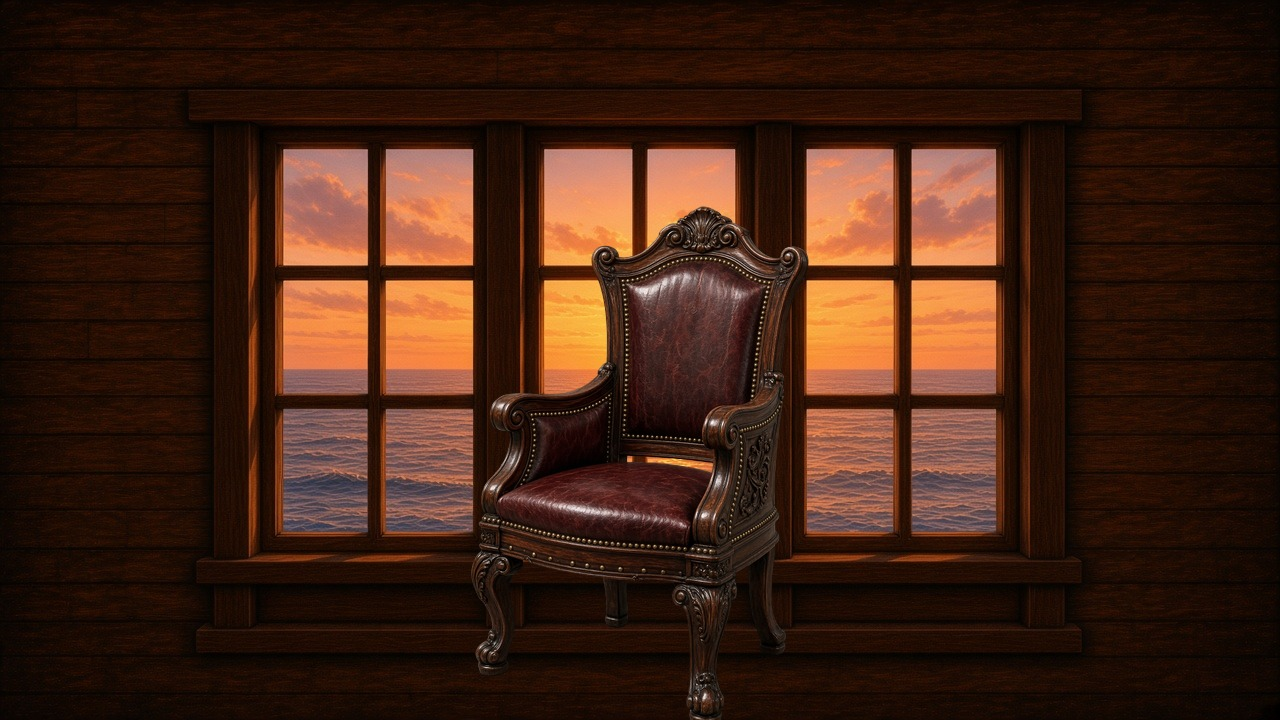
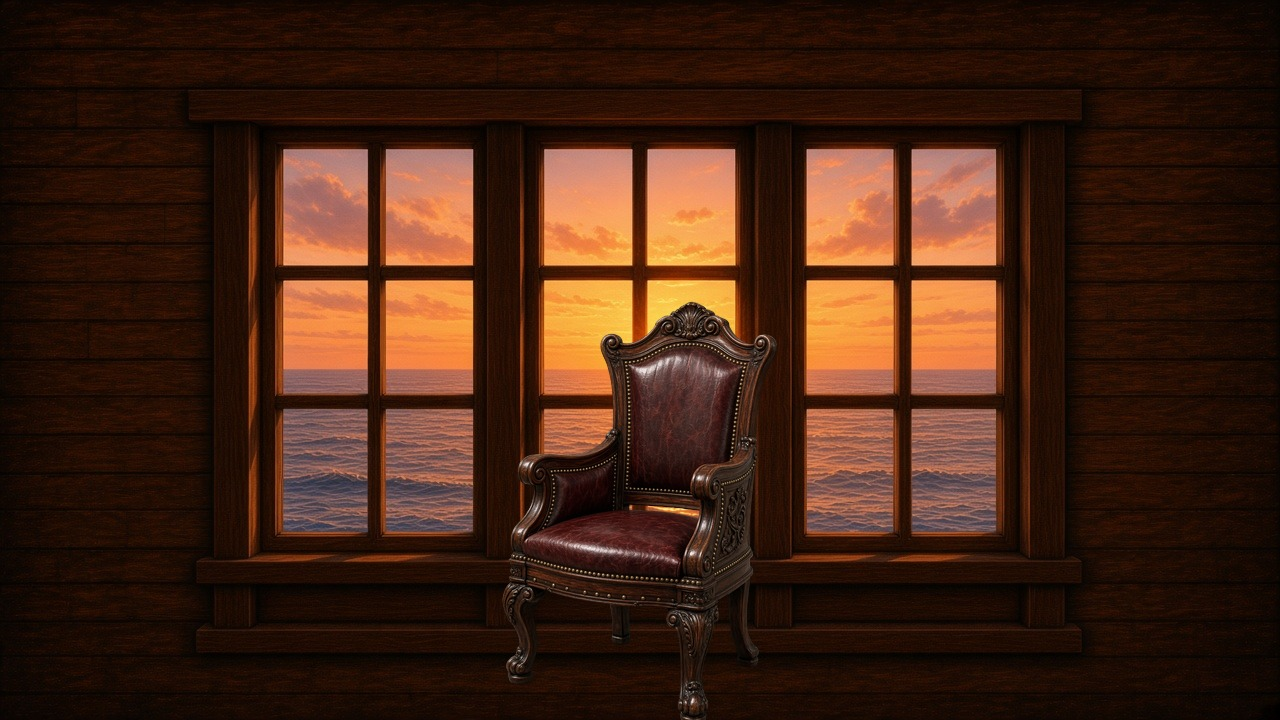
Nudge captain's chair one step smaller
Land between the original scale and the previous size.

Changed region(s): [[0.375, 0.275, 0.6562, 1.0]]

diff --git a/pirates-cabin.html b/pirates-cabin.html
@@ -30,7 +30,7 @@
         <div class="cabin-world" id="cabin-world">
           <div class="cabin-face cabin-face-stern">
             <img
-              src="images/cabin-stern-wall-v5.jpg?v=4"
+              src="images/cabin-stern-wall-v5.jpg?v=5"
               alt="Stern wall with three sunrise ocean windows and captain’s chair"
               draggable="false"
             />
